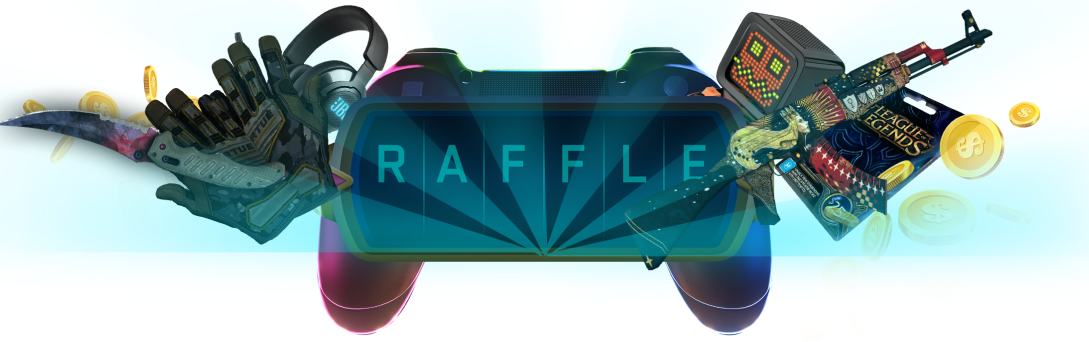
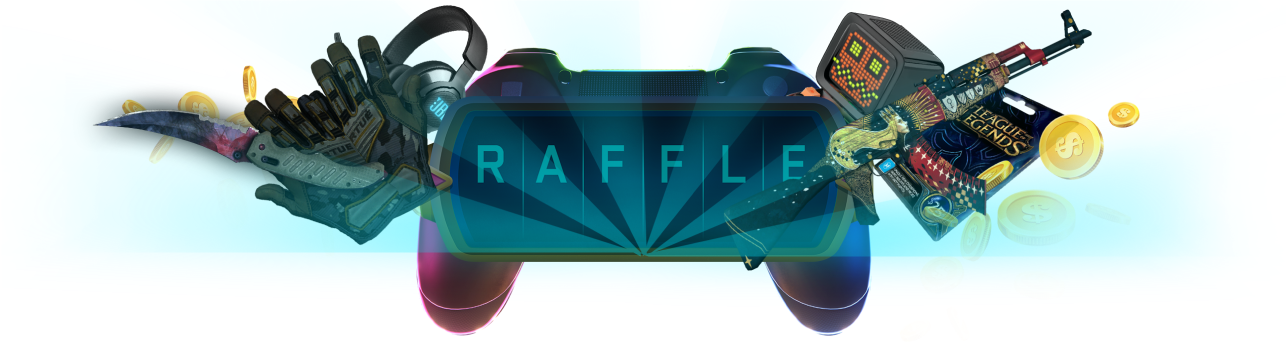
fix bug destiny

diff --git a/components/homepage/raffles/index.module.sass b/components/homepage/raffles/index.module.sass
@@ -1,6 +1,6 @@
 .raffles_wrapper
     width: 100%
-    height: 660px
+    // height: 660px
     display: flex
     flex-direction: column
     align-items: center
@@ -26,7 +26,8 @@
             color: #DBE0E8
     .body
         background: url("/assets/homepage/raffles/bgRaffles.png") no-repeat
-        width: 1089px
+        max-width: 1286px
+        width: 100%
         height: 342px
         padding: 0 260px
         display: flex
@@ -80,8 +81,8 @@
                         border: 1px solid #00F9FF
 
         .banner1
-            top: 141px
-            left: -155px
+            top: 167px
+            left: -57px
             z-index: 1
             box-shadow: 0px 0px 120px rgba(11, 235, 214, 0.28)
             border-radius: 4px
@@ -92,8 +93,8 @@
             background-repeat: no-repeat
             background-size: cover
         .banner2
-            top: 167px
-            left: 55px
+            top: 192px
+            left: 163px
             box-shadow: 0px 0px 120px rgba(11, 235, 214, 0.28)
             z-index: 2
             width: 320px
@@ -103,8 +104,8 @@
             background-repeat: no-repeat
             background-size: cover
         .banner3
-            top: 193px
-            left: 345px
+            top: 219px
+            left: 443px
             z-index: 3
             width: 400px
             height: 200px
@@ -115,8 +116,8 @@
             background-size: cover
 
         .banner4
-            top: 167px
-            right: 64px
+            top: 192px
+            right: 163px
             z-index: 2
             box-shadow: 0px 0px 120px rgba(11, 235, 214, 0.28)
             width: 320px
@@ -127,8 +128,8 @@
             background-size: cover
 
         .banner5
-            top: 141px
-            right: -155px
+            top: 167px
+            right: -57px
             box-shadow: 0px 0px 120px rgba(11, 235, 214, 0.28)
             z-index: 1
             width: 320px
@@ -137,3 +138,75 @@
             background-image: linear-gradient(0deg, rgba(0, 0, 0, 0.8), rgba(0, 0, 0, 0.8)), url("/assets/homepage/raffles/banner5.png")
             background-repeat: no-repeat
             background-size: cover
+
+    .footer
+        width: 615px
+        margin-top: 100px
+        background-color: #897
+        display: flex
+        align-items: center
+        justify-content: center
+        flex-direction: column
+        .footerBtnJoin
+            position: relative
+            color: white
+            padding: 9px 56px 8px
+            background: linear-gradient(93.02deg, #1889E4 0.52%, #0BEBD6 100.48%)
+            display: flex
+            align-items: center
+            justify-content: center
+            width: max-content
+            // height: 52px
+            .borderBtn
+                position: absolute
+                top: -2px
+                bottom: -2px
+                right: -2px
+                left: -2px
+                border: 1px solid #00F9FF
+            span
+                font-family: 'Revx Neue Demo'
+                font-style: normal
+                font-weight: 400
+                font-size: 28px
+                line-height: 31px
+                letter-spacing: 0.2em
+                text-transform: uppercase
+                color: #000000
+        .footerRank
+            display: flex
+            align-items: center
+            justify-content: center
+            flex-direction: column
+            margin-top: 32px
+            .footerItem1
+                display: flex
+                align-items: center
+                justify-content: center
+                .time
+                    font-family: 'Lexend'
+                    font-style: normal
+                    font-weight: 300
+                    font-size: 11px
+                    line-height: 14px
+                    display: flex
+                    align-items: center
+                    text-align: right
+                    color: #FFD058
+                .name
+                    width: 121px
+                    height: 14px
+                    font-family: 'Lexend'
+                    font-style: normal
+                    font-weight: 400
+                    font-size: 11px
+                    line-height: 14px
+                    color: #FFFFFF
+
+@media (max-width: 1400px) and (min-width: 980px)
+    .raffles_wrapper
+        .body
+            width: 1286px
+            .banner1, .bgBanner1, .banner5, .bgBanner5
+                display: none !important
+@media (max-width: 980px)

diff --git a/components/homepage/destiny/index.module.sass b/components/homepage/destiny/index.module.sass
@@ -45,7 +45,7 @@
             .naviItem, .naviItemActive
                 position: relative
                 width: max-content
-                font-family: Revx Neue Demo
+                font-family: RevxNeueDemo
                 cursor: pointer
                 padding: 10px 26px
                 height: 38px
@@ -130,7 +130,10 @@
                         flex-direction: column
                         .left_content
                             width: 660px
-                            margin-bottom: 26px
+                            // margin-bottom: 26px
+                            div
+                                &:last-child
+                                    margin-bottom: 0!important
                             .someIntro
                                 font-family: 'Lexend'
                                 font-style: normal
@@ -386,7 +389,7 @@
                 margin-top: 0 !important
                 .body_wrapper
                     margin-top: 24px !important
-                    height: 630px !important
+                    max-height: 630px !important
                     .bigName
                         display: none
                         &:last-child
@@ -423,8 +426,8 @@
                             .left_content
                                 width: 100% !important
                                 .someIntro
-                                    margin-bottom: 16px !important
-                                    line-height: 20px !important
+                                    margin-bottom: 24px !important
+                                    line-height: 24px !important
                                     span
                                         font-size: 14px !important
                                         line-height: 20px !important
@@ -433,9 +436,9 @@
                                             font-family: 'Lexend' !important
                                             font-style: normal !important
                                             font-size: 14px !important
-                                            line-height: 14px !important
                                             color: #FFFFFF !important
-                                            text-transform: inherit !important
+                                            margin-bottom: 4px !important
+                                            line-height: 20px !important
                                     .content
                                         font-family: 'Lexend' !important
                                         font-style: normal !important
@@ -453,4 +456,4 @@
                             align-items: flex-start
                             overflow: hidden
                             width: 100% !important
-                            margin-bottom: 16px
+                            margin-bottom: 18px

diff --git a/components/homepage/raffles/index.tsx b/components/homepage/raffles/index.tsx
@@ -1,4 +1,4 @@
-import React, { useState } from "react";
+import React, { useState, useEffect } from "react";
 import s from "./index.module.sass";
 import { Swiper, SwiperSlide } from "swiper/react";
 import { EffectCoverflow, Pagination } from "swiper";
@@ -11,6 +11,11 @@ const Raffles = () => {
     s.bgBanner4,
     s.bgBanner5,
   ];
+
+  const [screenWidth, setScreenWidth] = useState(0)
+  useEffect(() => {
+    setScreenWidth(window.outerWidth);
+  })
 
   const [stateIndexBanner, setStateIndexBanner] = useState(0);
   return (
@@ -88,7 +93,42 @@ const Raffles = () => {
         </SwiperSlide>
       </Swiper> */}
       </div>
-      <div className={s.footer}></div>
+      <div className={s.footer}>
+        <div className={s.footerBtnJoin}>
+          <div className={s.borderBtn}></div>
+          <span>join now</span>
+        </div>
+        <div className={s.footerRank}>
+          <div className={s.footerItem1}>
+            <div className={s.time}>June 29th, 6:30 am</div>
+            <div className={s.img}>{"[]"}</div>
+            <div className={s.name}>Ngô Thị Là Ánh Dương</div>
+            <div className={s.received}>Received a prize</div>
+            <div className={s.value}>Valued at €20</div>
+          </div>
+          <div className={s.footerItem2}>
+            <div className={s.time}>{screenWidth}</div>
+            <div className={s.img}></div>
+            <div className={s.name}></div>
+            <div className={s.received}></div>
+            <div className={s.value}></div>
+          </div>
+          <div className={s.footerItem3}>
+            <div className={s.time}></div>
+            <div className={s.img}></div>
+            <div className={s.name}></div>
+            <div className={s.received}></div>
+            <div className={s.value}></div>
+          </div>
+          <div className={s.footerItem4}>
+            <div className={s.time}></div>
+            <div className={s.img}></div>
+            <div className={s.name}></div>
+            <div className={s.received}></div>
+            <div className={s.value}></div>
+          </div>
+        </div>
+      </div>
     </div>
   );
 };

diff --git a/components/homepage/destiny/index.tsx b/components/homepage/destiny/index.tsx
@@ -39,7 +39,7 @@ const Destiny = () => {
                 <span className={s.title_hl}>A platform</span>
               </span>
             ),
-            content: "for creating, running tournament events.",
+            content: " for creating, running tournament events.",
           },
           {
             title: (
@@ -48,7 +48,7 @@ const Destiny = () => {
               </span>
             ),
             content:
-              "will get more popular and big prizes, big donation amount from Lucis Tournament platform.",
+              " will get more popular and big prizes, big donation amount from Lucis Tournament platform.",
           },
         ],
         img: "imgTournaments",
